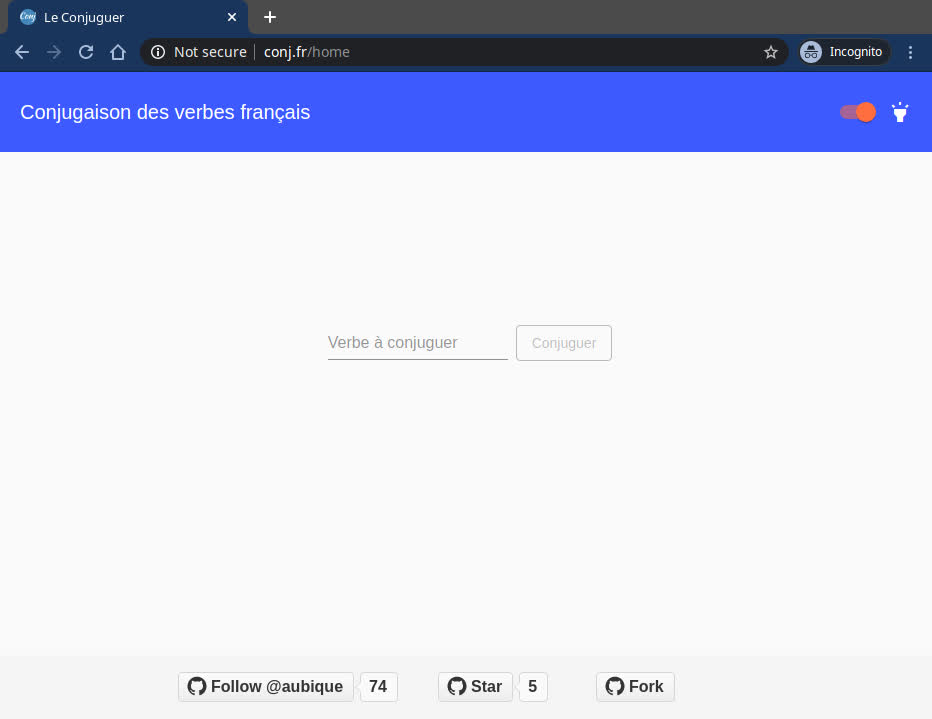
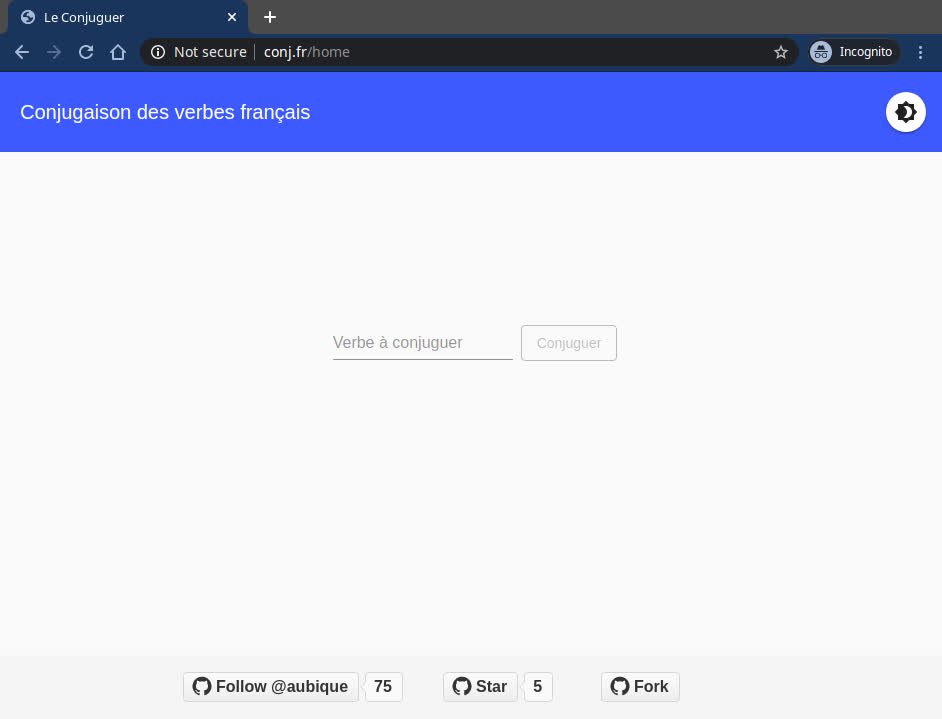
Update Logger and screenshots
- Update screenshots with new theme toggle
- Trace errors in Controller and info in Tests w/ `Log4j2`

diff --git a/conj-api/src/main/java/dev/aubique/conj/controller/ApiController.java b/conj-api/src/main/java/dev/aubique/conj/controller/ApiController.java
@@ -1,10 +1,11 @@
 package dev.aubique.conj.controller;
 
 import com.google.gson.Gson;
-import dev.aubique.conj.model.enums.JsonMapperType;
 import dev.aubique.conj.exceptions.ResourceNotFoundException;
 import dev.aubique.conj.model.dto.VerbDto;
+import dev.aubique.conj.model.enums.JsonMapperType;
 import dev.aubique.conj.services.VerbService;
+import lombok.extern.log4j.Log4j2;
 import org.springframework.beans.factory.annotation.Autowired;
 import org.springframework.http.HttpStatus;
 import org.springframework.http.ResponseEntity;
@@ -13,6 +14,7 @@ import org.springframework.web.bind.annotation.*;
 /**
  * Controller used to showcase the REST API
  */
+@Log4j2
 @RestController
 @CrossOrigin(origins = "http://localhost:4200")
 @RequestMapping("/api/")
@@ -42,6 +44,7 @@ public class ApiController {
             final var verbMax = service.getVerbDto(infinitive, type);
             return ResponseEntity.ok(verbMax);
         } catch (ResourceNotFoundException ex) {
+            log.error(ex.getMessage());
             // Not Found (404)
             return ResponseEntity.status(HttpStatus.NOT_FOUND).body(null);
         }

diff --git a/conj-api/src/test/java/dev/aubique/conj/services/ParserServiceImplTest.java b/conj-api/src/test/java/dev/aubique/conj/services/ParserServiceImplTest.java
@@ -2,6 +2,7 @@ package dev.aubique.conj.services;
 
 import com.google.gson.Gson;
 import com.google.gson.GsonBuilder;
+import lombok.extern.log4j.Log4j2;
 import org.assertj.core.api.Assertions;
 import org.junit.jupiter.api.BeforeAll;
 import org.junit.jupiter.api.BeforeEach;
@@ -12,6 +13,7 @@ import org.springframework.beans.factory.annotation.Autowired;
 import org.springframework.boot.test.context.SpringBootTest;
 import org.springframework.test.context.junit.jupiter.SpringExtension;
 
+@Log4j2
 @ExtendWith(SpringExtension.class)
 @SpringBootTest
 class ParserServiceImplTest {
@@ -38,7 +40,6 @@ class ParserServiceImplTest {
     void parserShouldReturnJsonWithSearchVerb() {
         final var parsedObj = parser.parseVerb(SEARCH_VERB);
         Assertions.assertThat(gsonPlain.toJson(parsedObj)).contains(SEARCH_VERB);
-//        final var gsonDetailed = new GsonBuilder().setPrettyPrinting().create();
-//        System.out.println(gsonDetailed.toJson(parsedObj));
+        log.info(gsonDetailed.toJson(parsedObj));
     }
 }

diff --git a/conj-api/src/main/java/dev/aubique/conj/services/impl/VerbServiceImpl.java b/conj-api/src/main/java/dev/aubique/conj/services/impl/VerbServiceImpl.java
@@ -1,9 +1,9 @@
 package dev.aubique.conj.services.impl;
 
-import dev.aubique.conj.model.enums.JsonMapperType;
 import dev.aubique.conj.exceptions.ResourceNotFoundException;
 import dev.aubique.conj.model.VerbEntity;
 import dev.aubique.conj.model.dto.VerbDto;
+import dev.aubique.conj.model.enums.JsonMapperType;
 import dev.aubique.conj.repository.VerbRepository;
 import dev.aubique.conj.services.MapperService;
 import dev.aubique.conj.services.ParserService;
@@ -25,6 +25,7 @@ public class VerbServiceImpl implements VerbService {
     @Autowired
     private MapperService<VerbEntity, VerbDto> mapper;
 
+    @Deprecated
     public VerbEntity getVerbById(Long verbId) {
         return repo.findById(verbId).get();
     }
@@ -70,7 +71,6 @@ public class VerbServiceImpl implements VerbService {
 
         saveVerb(verbObj);
         return doInternalSearch(verbObj.getName());
-//        return Optional.of(verbObj);
     }
 
     public void saveVerb(VerbEntity verbObj) {

diff --git a/conj-api/src/test/java/dev/aubique/conj/mapper/MaxMapperTest.java b/conj-api/src/test/java/dev/aubique/conj/mapper/MaxMapperTest.java
@@ -41,7 +41,7 @@ class MaxMapperTest {
 
     @AfterEach
     void tearDown() {
-//        System.out.println(gson.toJson(mapperReal.map()));//Debug output
+//        log.debug(gson.toJson(mapperReal.map()));
     }
 
     @DisplayName("mapSubjunctive should return valid Indicative Present Perfect tense")
